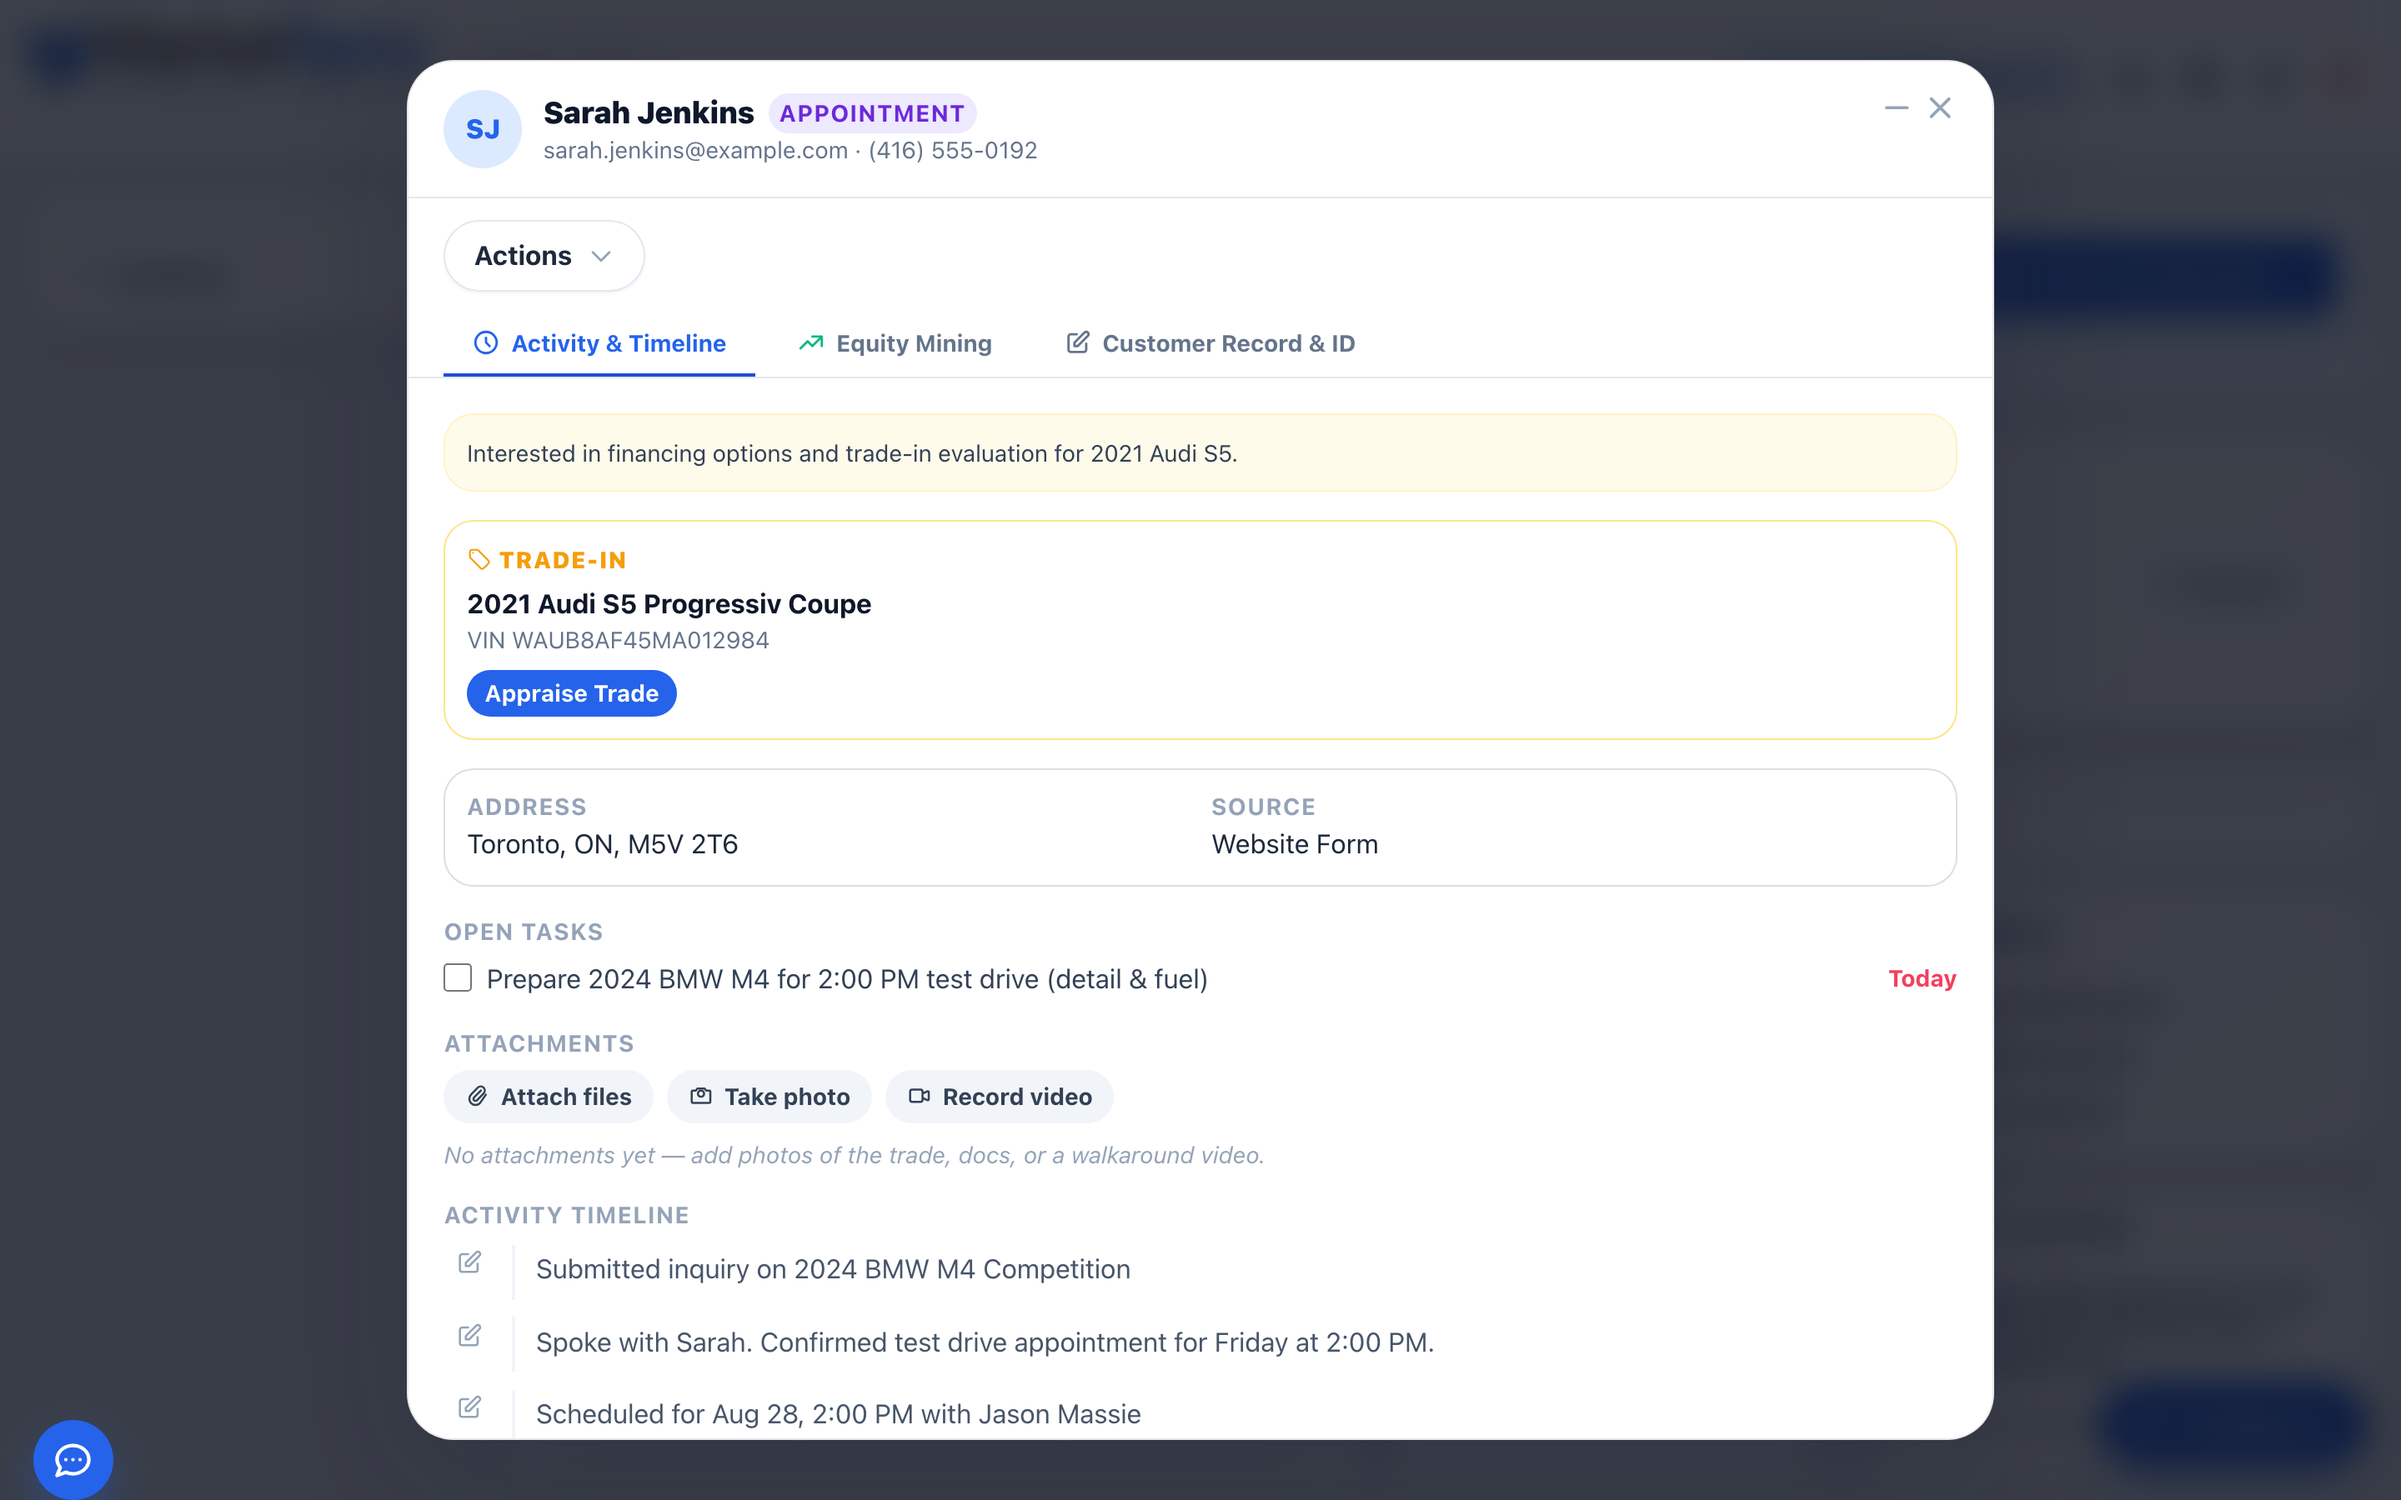
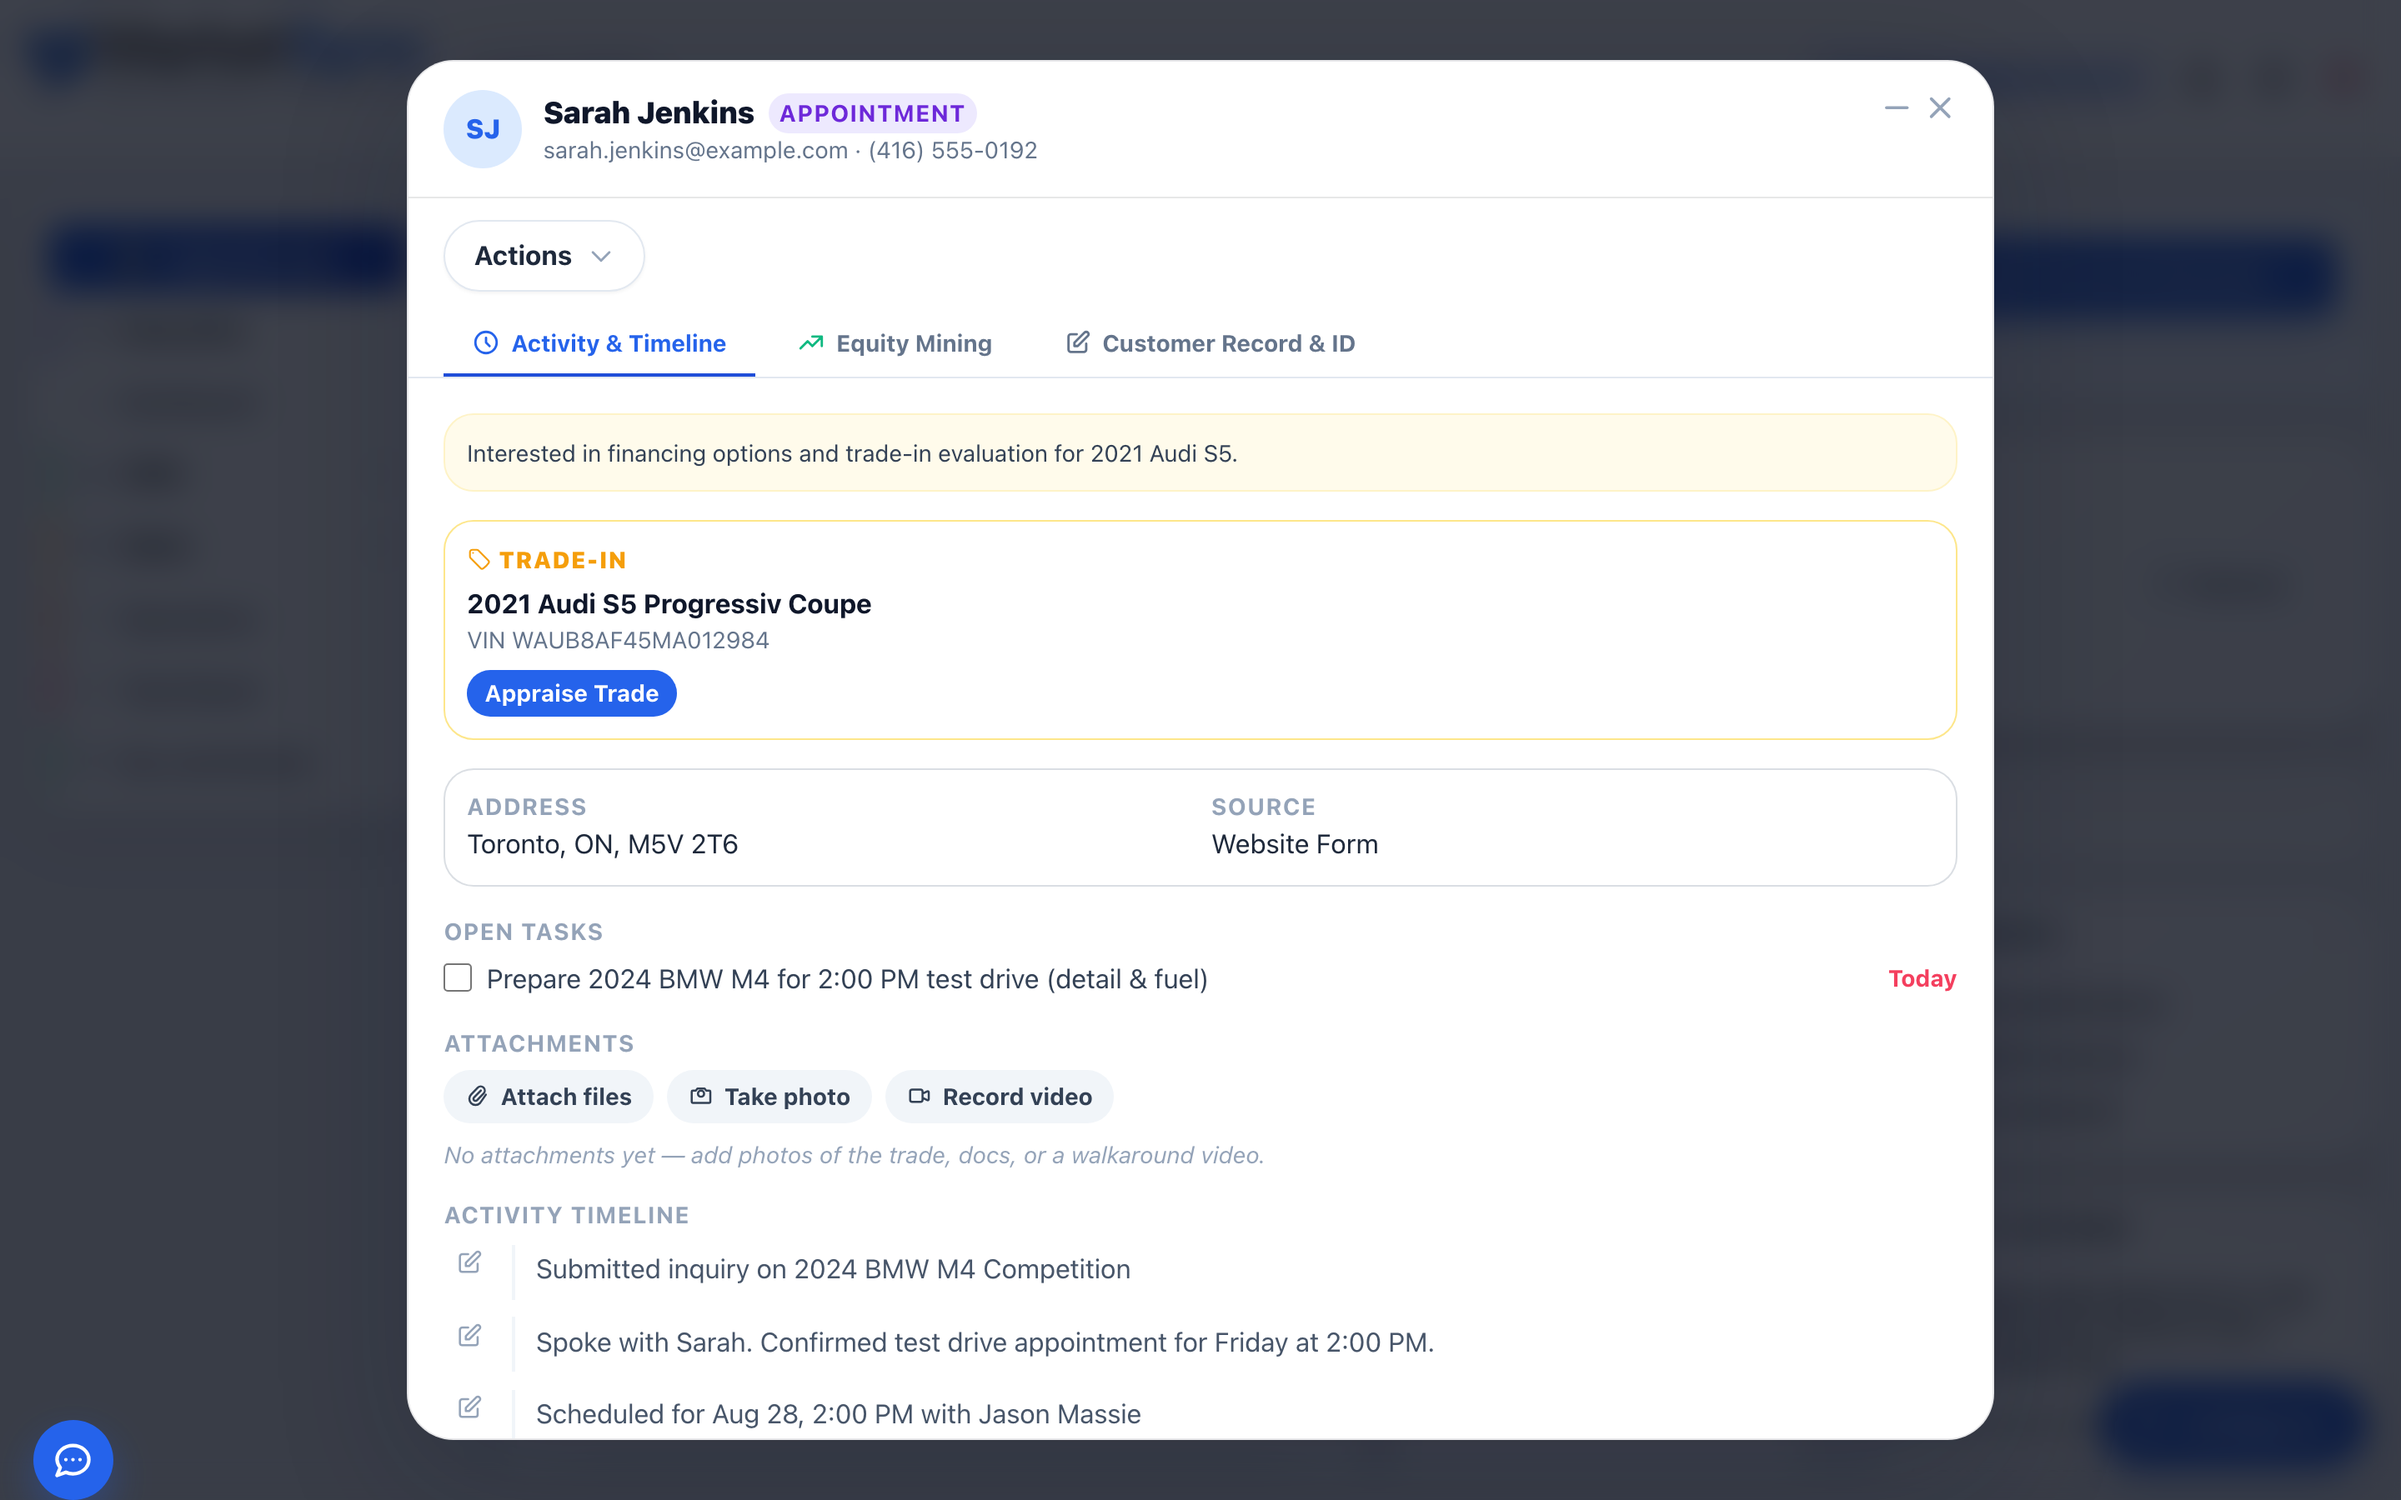
docs(evidence): update HQ mobile navigation evidence showing Platform tab

Changed region(s): [[0.0, 0.1244, 0.1875, 0.2178]]

diff --git a/marketplace-backend/scripts/capture-evidence.js b/marketplace-backend/scripts/capture-evidence.js
@@ -405,6 +405,11 @@ async function captureAll(browser, baseUrl) {
     await page.waitForTimeout(600)
 
     await page.evaluate(async ({ targetPage, theme, customerId, isHq }) => {
+      if (isHq) {
+        document.documentElement.setAttribute('data-dash-owner', '1')
+        document.documentElement.setAttribute('data-dash-mode', 'marketsync')
+      }
+
       if (typeof switchPage === 'function') switchPage(targetPage)
       if (theme === 'dark') {
         document.documentElement.classList.add('dark')
@@ -414,6 +419,9 @@ async function captureAll(browser, baseUrl) {
 
       const banner = document.getElementById('dash-load-fail-banner')
       if (banner) banner.classList.add('hidden')
+
+      if (typeof renderDeptNav === 'function') renderDeptNav()
+      if (typeof applyMobileQuickRow === 'function') applyMobileQuickRow()
 
       if (isHq && typeof loadHqAgents === 'function' && targetPage === 'saas-agents') {
         await loadHqAgents()
